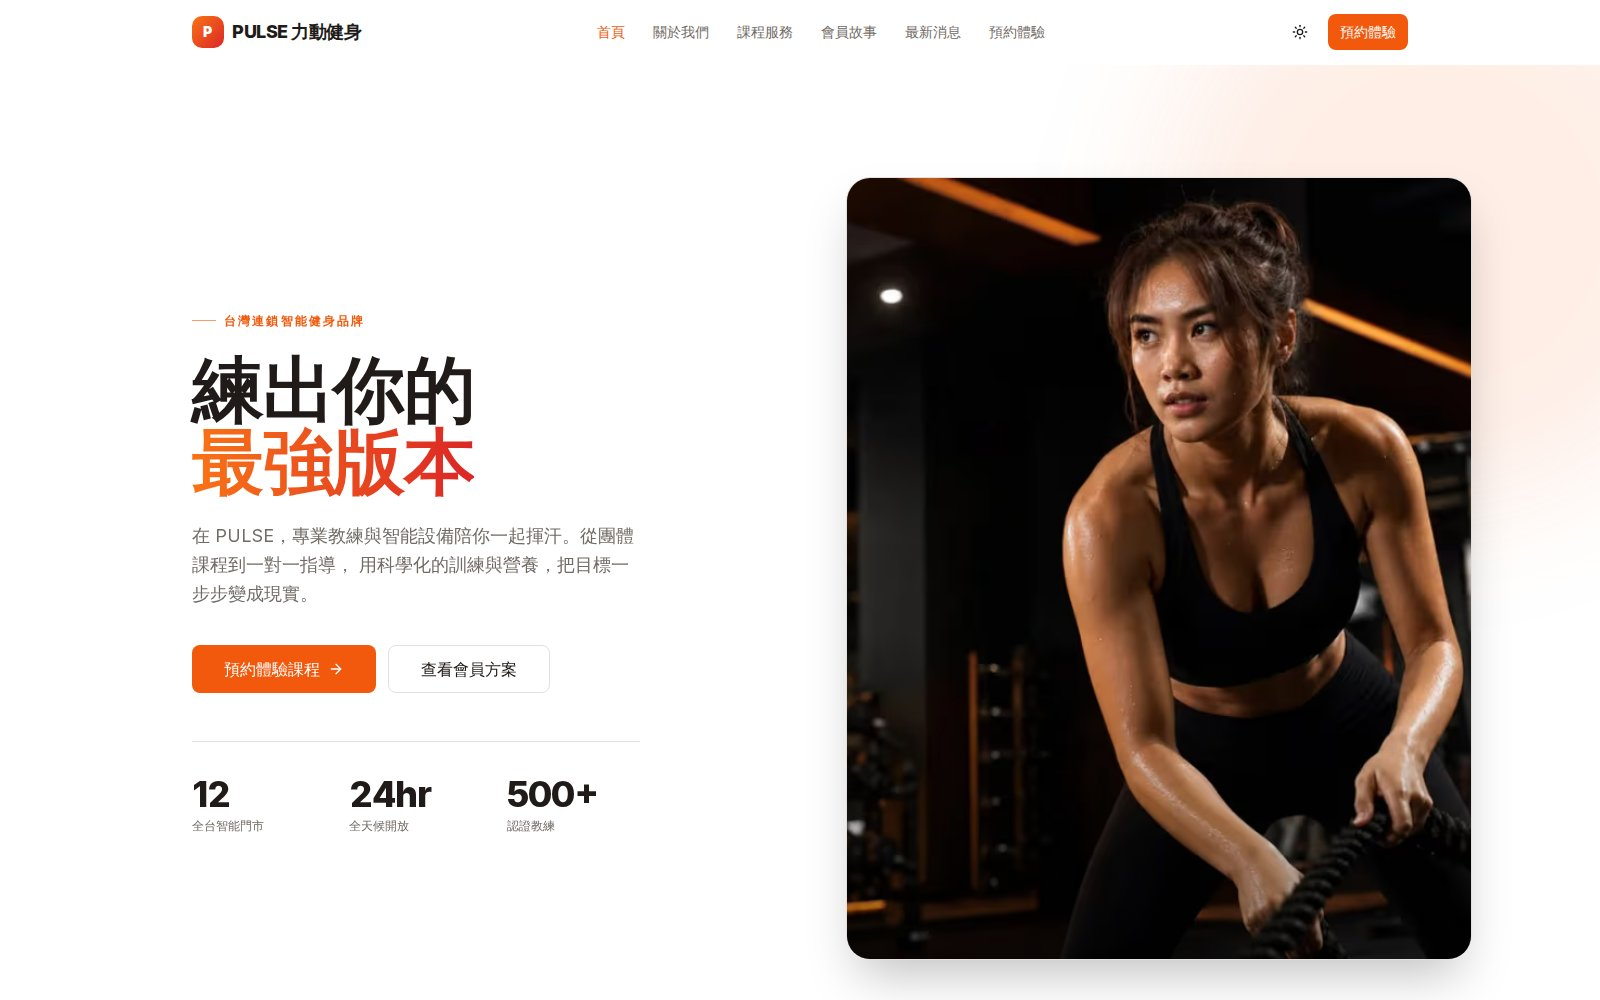
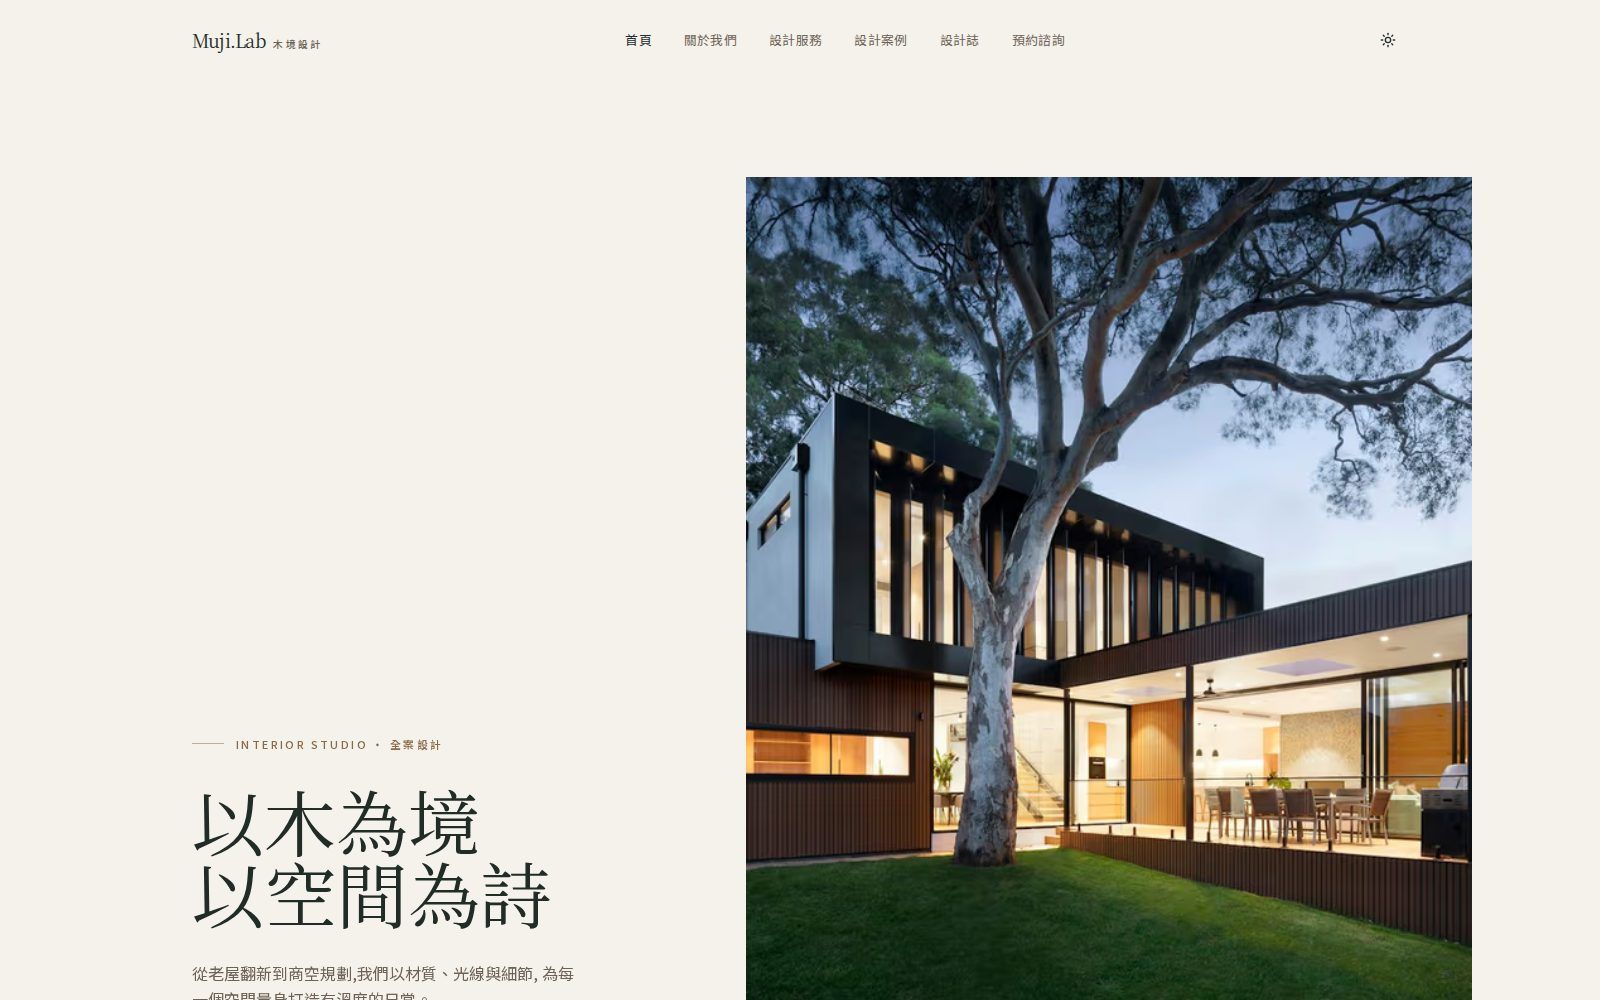
content: 品牌形象官網案例更新為 Muji.Lab 木境設計

diff --git a/brand-case.html b/brand-case.html
@@ -4,15 +4,16 @@
   <meta charset="UTF-8" />
   <script>document.documentElement.setAttribute("data-theme",localStorage.getItem("theme")||(matchMedia("(prefers-color-scheme:dark)").matches?"dark":"light"));</script>
   <meta name="viewport" content="width=device-width, initial-scale=1.0" />
-  <meta name="description" content="品牌形象官網案例 — 讓客人第一眼就信任你的品牌。說好品牌故事、展示團隊與口碑、用內容行銷做 SEO、以表單和電話把訪客變成詢問。適合健身、瑜伽、診所、教育與運動品牌。" />
+  <meta name="description" content="品牌形象官網案例 — 讓客人第一眼就信任你的品牌。說好品牌故事、展示團隊與口碑、用內容行銷做 SEO、以表單和電話把訪客變成詢問。適合室內設計、建築、診所、教育與生活風格品牌。" />
   <meta name="robots" content="index, follow" />
   <link rel="canonical" href="https://mosstack.studio/brand-case.html" />
-  <script type="application/ld+json">{"@context":"https://schema.org","@type":"CreativeWork","name":"品牌形象官網案例","description":"品牌形象官網，用品牌故事、團隊介紹、客戶口碑與內容行銷建立信任，並以聯絡表單與電話導客。深淺色模式、SEO 友善網址、RWD、繁體中文。適合健身房、瑜伽工作室、診所、教育培訓與運動品牌。","url":"https://mosstack.studio/brand-case.html","creator":{"@id":"https://mosstack.studio/#business"},"keywords":"品牌官網,形象官網,品牌網站設計,內容行銷,SEO,台灣品牌官網","inLanguage":"zh-TW"}</script>
+  <script type="application/ld+json">{"@context":"https://schema.org","@type":"CreativeWork","name":"品牌形象官網案例","description":"品牌形象官網，用品牌故事、團隊介紹、客戶口碑與內容行銷建立信任，並以聯絡表單與電話導客。深淺色模式、SEO 友善網址、RWD、繁體中文。適合室內設計、建築事務所、診所、教育培訓與生活風格品牌。","url":"https://mosstack.studio/brand-case.html","creator":{"@id":"https://mosstack.studio/#business"},"keywords":"品牌官網,形象官網,品牌網站設計,內容行銷,SEO,台灣品牌官網","inLanguage":"zh-TW"}</script>
   <title>品牌形象官網案例 — MosStack Studio</title>
   <link rel="preconnect" href="https://fonts.googleapis.com">
   <link rel="preconnect" href="https://fonts.gstatic.com" crossorigin>
   <link href="https://fonts.googleapis.com/css2?family=Inter:wght@400;500;600;700&display=swap" rel="stylesheet">
   <link href="https://api.fontshare.com/v2/css?f[]=satoshi@400,500,700&display=swap" rel="stylesheet">
+  <link href="https://fonts.googleapis.com/css2?family=Noto+Serif+TC:wght@600;700;900&display=swap" rel="stylesheet">
   <link rel="icon" type="image/x-icon" href="/assets/favicon.ico" />
   <link rel="icon" type="image/png" sizes="32x32" href="/assets/favicon-32.png" />
   <link rel="icon" type="image/png" sizes="16x16" href="/assets/favicon-16.png" />
@@ -81,7 +82,7 @@
     <div class="container">
       <p class="hero__eyebrow">Live Demo · 品牌形象官網</p>
       <h1 class="hero__title">品牌官網<br><span>讓客人第一眼就信任你。</span></h1>
-      <p class="hero__subtitle">健身房、瑜伽、診所、教育培訓、運動品牌都適用。用一頁把品牌故事說清楚、把團隊與客戶口碑攤開來，讓 Google 找得到你，再用表單和電話把上門的訪客變成真正的詢問。</p>
+      <p class="hero__subtitle">室內設計、建築、診所、教育培訓、生活風格品牌都適用。用一頁把品牌故事說清楚、把作品與客戶口碑攤開來，讓 Google 找得到你，再用表單和電話把上門的訪客變成真正的詢問。</p>
       <div class="hero__cta">
         <a href="/contact.html" class="btn btn--primary">聊聊你的品牌官網</a>
         <a href="https://demo-brand.mosstack.studio" target="_blank" rel="noopener noreferrer" class="btn btn--ghost">↗ 開啟線上 Demo</a>
@@ -92,43 +93,43 @@
   <!-- ── 案例主視覺（線上 Demo 畫面輪播）── -->
   <section class="reveal" style="padding:0 0 var(--space-10)">
     <div class="container--wide">
-      <div class="gallery" aria-roledescription="輪播" aria-label="PULSE 力動健身 品牌官網 Demo 畫面">
+      <div class="gallery" aria-roledescription="輪播" aria-label="Muji.Lab 木境設計 品牌官網 Demo 畫面">
         <div class="gallery__viewport">
           <div class="gallery__track">
             <div class="gallery__slide">
               <figure class="gallery__card">
-                <img class="gallery__img" src="/assets/work/brand/01-home.jpg" alt="PULSE 力動健身 — 首頁" width="1600" height="1000" loading="lazy" />
-                <figcaption class="gallery__caption"><span class="gallery__tag">首頁</span>品牌主視覺：標語、成績數字與導客按鈕</figcaption>
+                <img class="gallery__img" src="/assets/work/brand/01-home.jpg" alt="Muji.Lab 木境設計 — 首頁" width="1600" height="1000" loading="lazy" />
+                <figcaption class="gallery__caption"><span class="gallery__tag">首頁</span>品牌主視覺：一句話說清楚定位，配上代表作品</figcaption>
               </figure>
             </div>
             <div class="gallery__slide">
               <figure class="gallery__card">
-                <img class="gallery__img" src="/assets/work/brand/02-about.jpg" alt="PULSE 力動健身 — 關於我們" width="1600" height="1000" loading="lazy" />
-                <figcaption class="gallery__caption"><span class="gallery__tag">關於我們</span>品牌故事、成立背景與使命願景</figcaption>
+                <img class="gallery__img" src="/assets/work/brand/02-about.jpg" alt="Muji.Lab 木境設計 — 關於我們" width="1600" height="1000" loading="lazy" />
+                <figcaption class="gallery__caption"><span class="gallery__tag">關於我們</span>品牌故事、經營理念與工作室介紹</figcaption>
               </figure>
             </div>
             <div class="gallery__slide">
               <figure class="gallery__card">
-                <img class="gallery__img" src="/assets/work/brand/03-services.jpg" alt="PULSE 力動健身 — 課程服務" width="1600" height="1000" loading="lazy" />
-                <figcaption class="gallery__caption"><span class="gallery__tag">課程服務</span>服務項目卡片與行動呼籲</figcaption>
+                <img class="gallery__img" src="/assets/work/brand/03-services.jpg" alt="Muji.Lab 木境設計 — 設計服務" width="1600" height="1000" loading="lazy" />
+                <figcaption class="gallery__caption"><span class="gallery__tag">設計服務</span>服務項目與合作流程，讓客人知道怎麼開始</figcaption>
               </figure>
             </div>
             <div class="gallery__slide">
               <figure class="gallery__card">
-                <img class="gallery__img" src="/assets/work/brand/04-cases.jpg" alt="PULSE 力動健身 — 會員故事" width="1600" height="1000" loading="lazy" />
-                <figcaption class="gallery__caption"><span class="gallery__tag">會員故事</span>真實成效見證，用口碑建立信任</figcaption>
+                <img class="gallery__img" src="/assets/work/brand/04-cases.jpg" alt="Muji.Lab 木境設計 — 設計案例" width="1600" height="1000" loading="lazy" />
+                <figcaption class="gallery__caption"><span class="gallery__tag">設計案例</span>作品集展示，用實績建立信任</figcaption>
               </figure>
             </div>
             <div class="gallery__slide">
               <figure class="gallery__card">
-                <img class="gallery__img" src="/assets/work/brand/05-blog.jpg" alt="PULSE 力動健身 — 最新消息" width="1600" height="1000" loading="lazy" />
-                <figcaption class="gallery__caption"><span class="gallery__tag">最新消息</span>內容行銷與 SEO：標籤篩選的文章牆</figcaption>
+                <img class="gallery__img" src="/assets/work/brand/05-blog.jpg" alt="Muji.Lab 木境設計 — 設計誌" width="1600" height="1000" loading="lazy" />
+                <figcaption class="gallery__caption"><span class="gallery__tag">設計誌</span>內容行銷與 SEO：持續累積的專業文章</figcaption>
               </figure>
             </div>
             <div class="gallery__slide">
               <figure class="gallery__card">
-                <img class="gallery__img" src="/assets/work/brand/06-contact.jpg" alt="PULSE 力動健身 — 預約體驗" width="1600" height="1000" loading="lazy" />
-                <figcaption class="gallery__caption"><span class="gallery__tag">預約體驗</span>導客表單、分店與目標下拉選單</figcaption>
+                <img class="gallery__img" src="/assets/work/brand/06-contact.jpg" alt="Muji.Lab 木境設計 — 預約諮詢" width="1600" height="1000" loading="lazy" />
+                <figcaption class="gallery__caption"><span class="gallery__tag">預約諮詢</span>導客表單與聯絡資訊，把訪客變成詢問</figcaption>
               </figure>
             </div>
           </div>
@@ -144,14 +145,14 @@
       <div style="text-align:center;margin:var(--space-5) 0 0">
         <a href="https://demo-brand.mosstack.studio" target="_blank" rel="noopener noreferrer" class="btn btn--primary" style="font-size:var(--text-base)">↗ 在新分頁開啟完整 Demo</a>
       </div>
-      <p style="margin:var(--space-4) 0 0;font-size:var(--text-sm);color:var(--color-text-muted);text-align:center">Demo 範例：PULSE 力動健身（示範用虛構品牌）。可左右滑動或點箭頭瀏覽多個實際畫面、點圖放大。品牌與內容依你的需求量身打造。</p>
+      <p style="margin:var(--space-4) 0 0;font-size:var(--text-sm);color:var(--color-text-muted);text-align:center">Demo 範例：Muji.Lab 木境設計（示範用虛構品牌）。可左右滑動或點箭頭瀏覽多個實際畫面、點圖放大。品牌與內容依你的需求量身打造。</p>
     </div>
   </section>
 
   <!-- ── 成效數字看板 ── -->
   <section class="reveal" style="padding:0 0 var(--space-10)">
     <div class="container--wide">
-      <div style="display:grid;grid-template-columns:repeat(auto-fit,minmax(180px,1fr));gap:var(--space-4);border:1px solid var(--color-border);border-radius:16px;padding:var(--space-6);background:var(--color-surface)">
+      <div style="display:grid;grid-template-columns:repeat(auto-fit,minmax(180px,1fr));gap:var(--space-4);border:1px solid var(--color-border);border-radius:var(--radius-xl);padding:var(--space-6);background:var(--color-surface)">
         <div style="text-align:center">
           <p class="stat-figure">3 秒</p>
           <p class="stat-caption">訪客判斷「這品牌值不值得信任」的時間</p>
@@ -271,9 +272,9 @@
     <!-- ── 中段軟性 CTA + 客戶引言 ── -->
     <section style="padding:var(--space-8) 0">
       <div class="container">
-        <div style="border:1px solid var(--color-border);border-radius:16px;padding:var(--space-6);background:var(--color-surface);display:flex;flex-direction:column;gap:var(--space-4)">
-          <blockquote style="margin:0;font-size:var(--text-lg);line-height:1.6;color:var(--color-text)">「以前客人加了 LINE 才問東問西，現在他們在官網就把品牌、課程、教練都看完了，來的時候幾乎是決定好要加入的。詢問的質量明顯不一樣。」</blockquote>
-          <p style="margin:0;font-size:var(--text-sm);color:var(--color-text-muted)">—— 健身品牌負責人（為保護客戶隱私，使用化名）</p>
+        <div style="border:1px solid var(--color-border);border-radius:var(--radius-xl);padding:var(--space-6);background:var(--color-surface);display:flex;flex-direction:column;gap:var(--space-4)">
+          <blockquote style="margin:0;font-size:var(--text-lg);line-height:1.6;color:var(--color-text)">「以前客人加了 LINE 才問東問西，現在他們在官網就把品牌、作品和服務流程都看完了，來談的時候幾乎已經決定要合作。詢問的質量明顯不一樣。」</blockquote>
+          <p style="margin:0;font-size:var(--text-sm);color:var(--color-text-muted)">—— 設計工作室主理人（為保護客戶隱私，使用化名）</p>
           <div style="display:flex;gap:var(--space-3);flex-wrap:wrap;align-items:center;padding-top:var(--space-2)">
             <a href="/contact.html" class="btn btn--primary">免費 30 分鐘需求諮詢</a>
             <span style="font-size:var(--text-sm);color:var(--color-text-muted)">不用準備規格，有方向就可以先聊。· 24hr 內回覆</span>
@@ -295,7 +296,7 @@
             <div class="service-detail-block">
               <p class="service-detail-block__label">最新消息 / 部落格</p>
               <ul class="service-checklist">
-                <li>分享課程知識、活動與品牌動態，展現專業。</li>
+                <li>分享專業知識、案例心得與品牌動態，展現專業。</li>
                 <li>標籤分類與篩選，讓讀者好找、待更久。</li>
                 <li>每一篇都是被搜尋到的機會，內容越多入口越多。</li>
               </ul>
@@ -357,11 +358,11 @@
             <div class="service-detail-block">
               <p class="service-detail-block__label">特別適合</p>
               <div class="service-section__cases">
-                <span class="service-case-tag">→ 健身房 / 健身連鎖</span>
-                <span class="service-case-tag">→ 瑜伽 / 皮拉提斯工作室</span>
-                <span class="service-case-tag">→ 運動 / 生活風格品牌</span>
+                <span class="service-case-tag">→ 室內設計 / 建築事務所</span>
                 <span class="service-case-tag">→ 診所 / 健康 / 醫美</span>
                 <span class="service-case-tag">→ 教育 / 培訓 / 顧問</span>
+                <span class="service-case-tag">→ 健身房 / 瑜伽工作室</span>
+                <span class="service-case-tag">→ 攝影 / 生活風格品牌</span>
               </div>
             </div>
             <div class="service-detail-block">
@@ -391,9 +392,9 @@
             <div class="service-detail-block">
               <p class="service-detail-block__label">你可以在 Demo 裡體驗</p>
               <ul class="service-checklist">
-                <li>首頁、關於我們、課程服務、會員故事、最新消息、預約體驗完整逛一圈。</li>
+                <li>首頁、關於我們、設計服務、設計案例、設計誌、預約諮詢完整逛一圈。</li>
                 <li>深色 / 淺色模式切換，看網站在不同情境下的樣子。</li>
-                <li>最新消息的標籤篩選、多分店資訊與聯絡表單的導客流程。</li>
+                <li>設計誌文章、案例詳頁與預約諮詢表單的導客流程。</li>
               </ul>
             </div>
             <div style="display:flex; gap: var(--space-3); flex-wrap:wrap;">

diff --git a/index.html b/index.html
@@ -14,6 +14,7 @@
   <link rel="preconnect" href="https://fonts.gstatic.com" crossorigin>
   <link href="https://fonts.googleapis.com/css2?family=Inter:wght@400;500;600;700&display=swap" rel="stylesheet">
   <link href="https://api.fontshare.com/v2/css?f[]=satoshi@400,500,700&display=swap" rel="stylesheet">
+  <link href="https://fonts.googleapis.com/css2?family=Noto+Serif+TC:wght@600;700;900&display=swap" rel="stylesheet">
   <link rel="icon" type="image/x-icon" href="/assets/favicon.ico" />
   <link rel="icon" type="image/png" sizes="32x32" href="/assets/favicon-32.png" />
   <link rel="icon" type="image/png" sizes="16x16" href="/assets/favicon-16.png" />
@@ -146,7 +147,7 @@
             </div>
           </a>
           <a href="/brand-case.html" class="project-card">
-            <div class="project-card__image"><img src="/assets/work/brand/01-home.jpg" alt="PULSE 力動健身 品牌形象官網 — 實際 Demo 畫面" width="600" height="400" loading="lazy"></div>
+            <div class="project-card__image"><img src="/assets/work/brand/01-home.jpg" alt="Muji.Lab 木境設計 品牌形象官網 — 實際 Demo 畫面" width="600" height="400" loading="lazy"></div>
             <div class="project-card__info">
               <span class="project-card__live-badge">Live Demo</span>
               <h3 class="project-card__name">品牌形象官網</h3>
